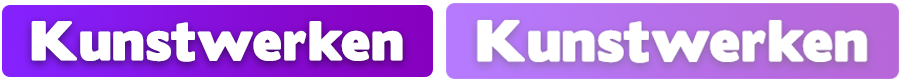
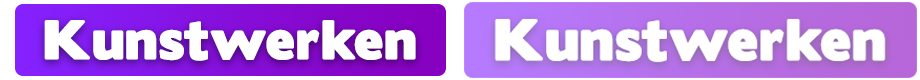
Sort of fixed the art button

Changed region(s): [[0.0, 0.025, 0.9945, 0.975], [0.9945, 0.075, 1.0, 0.95], [0.9012, 0.75, 0.9323, 0.775]]

diff --git a/src/Preloader.ts b/src/Preloader.ts
@@ -17,7 +17,7 @@ module MyGame {
 			this.load.image('locked1', 'assets/ui_lockedcharacter1.png')
 			this.load.image('locked2', 'assets/ui_lockedcharacter2.png')
 			this.load.spritesheet('menuGoButton', 'assets/ui_go.png', 210, 80, 3)
-			this.load.spritesheet('menuKunstwerkenButton', 'assets/ui_kunstwerken.png', 450, 81, 2)
+			this.load.spritesheet('menuKunstwerkenButton', 'assets/ui_kunstwerken.png', 460, 80, 2)
 			this.load.image('uiBackground', 'assets/ui_background.jpg')
 			this.load.image('menuTitle', 'assets/menu_title.png')
 		
